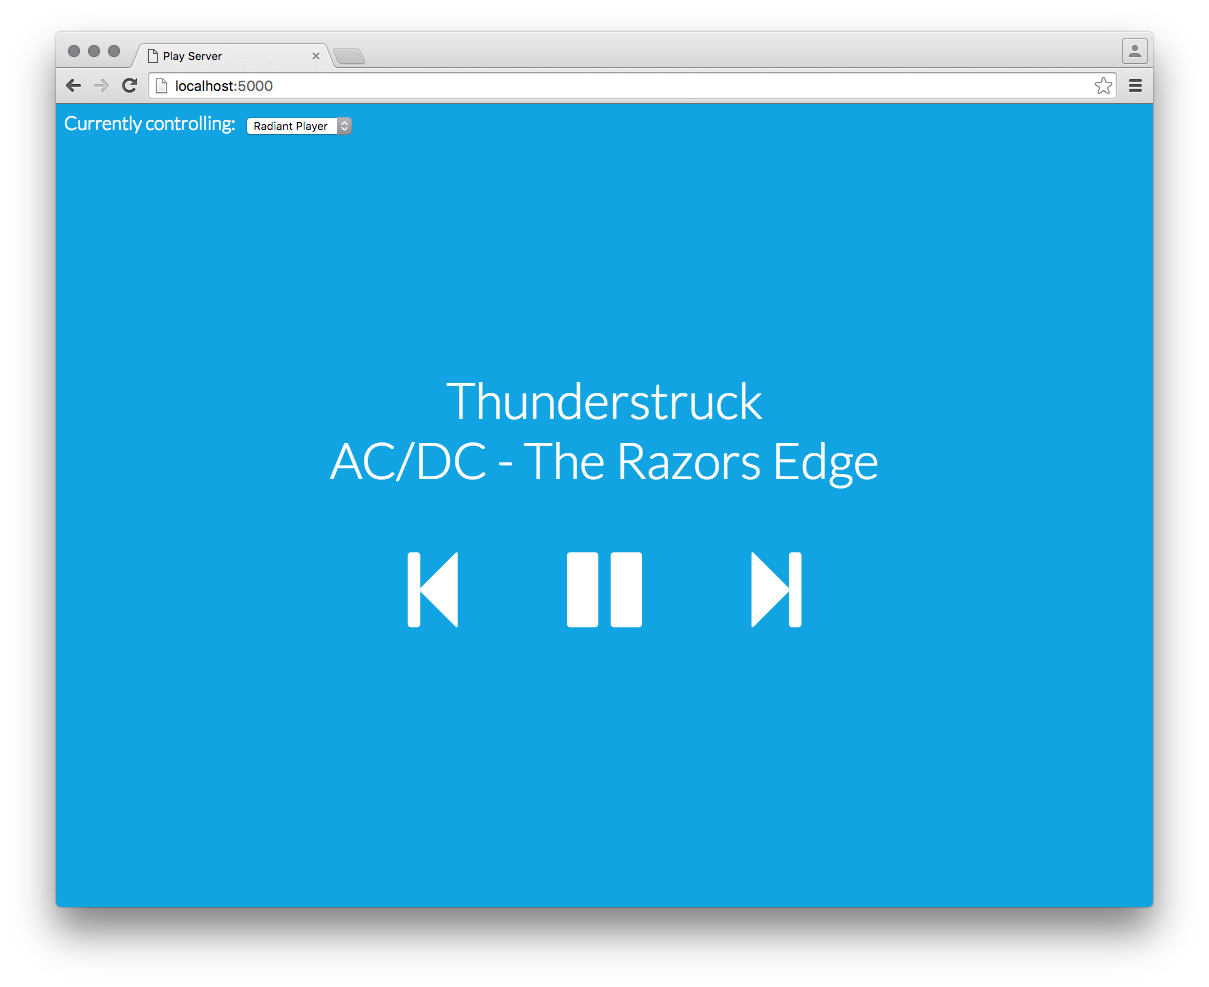
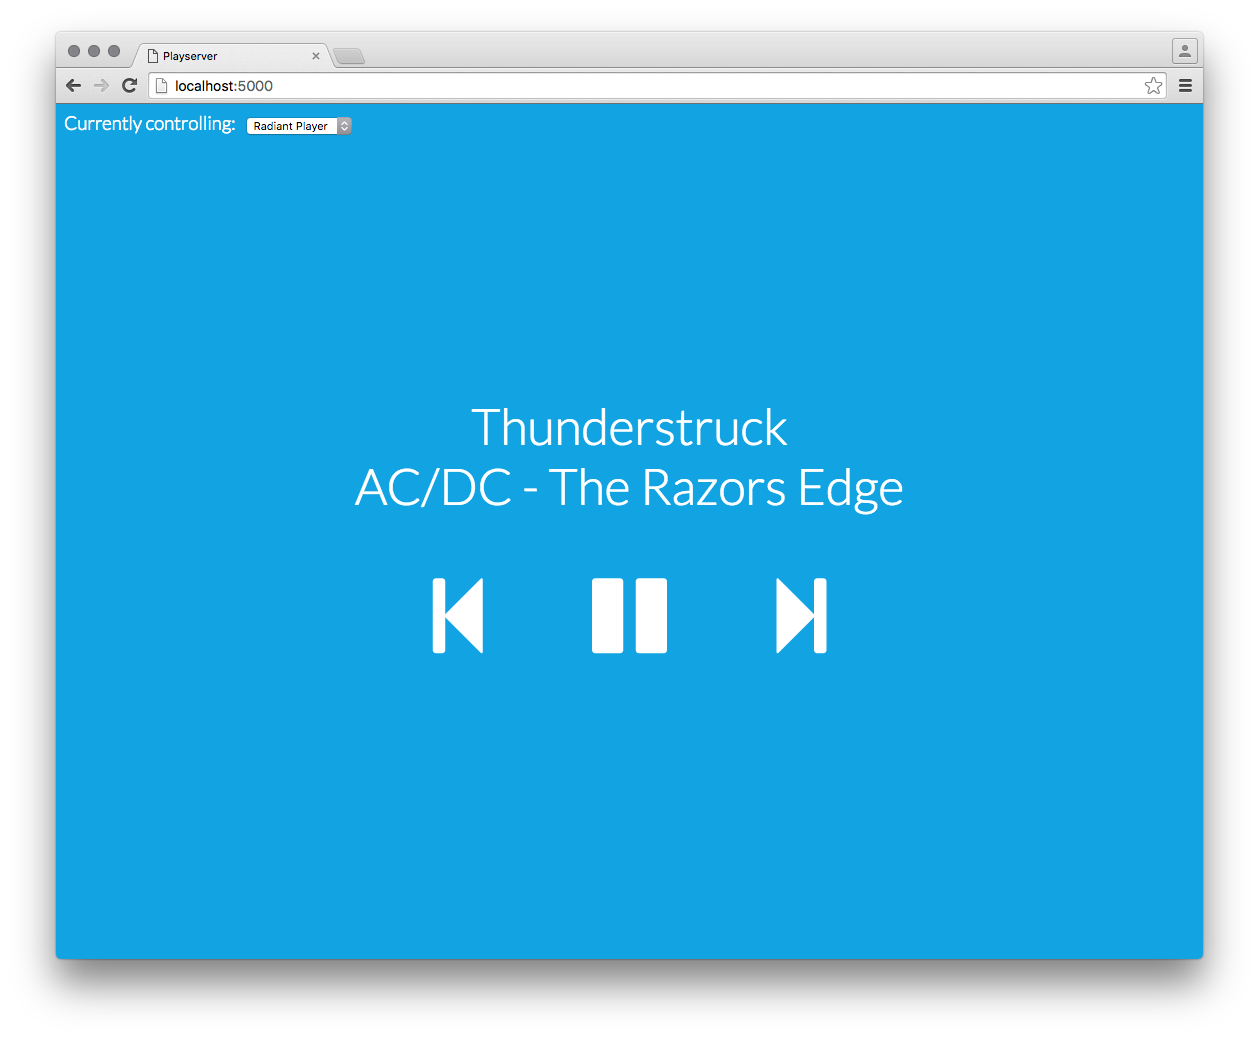
Update screenshot and title to reflect new capitalization changes

diff --git a/templates/index.html b/templates/index.html
@@ -3,7 +3,7 @@
 		<link href="/static/css/index.css" rel="stylesheet">
 		<link href="/static/libs/font-awesome/css/font-awesome.min.css" rel="stylesheet">
 		<script src="/static/js/index.js"></script>
-		<title>Play Server</title>
+		<title>Playserver</title>
 	</head>
 	<body>
 		<div id="main-container">
